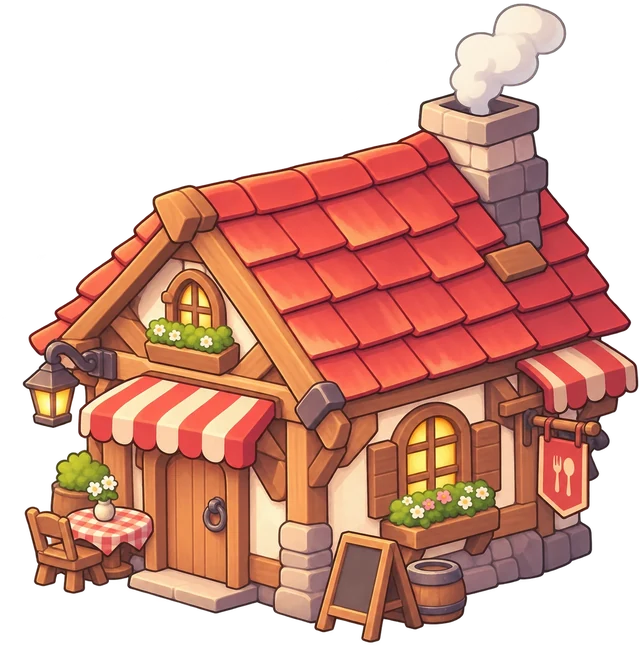
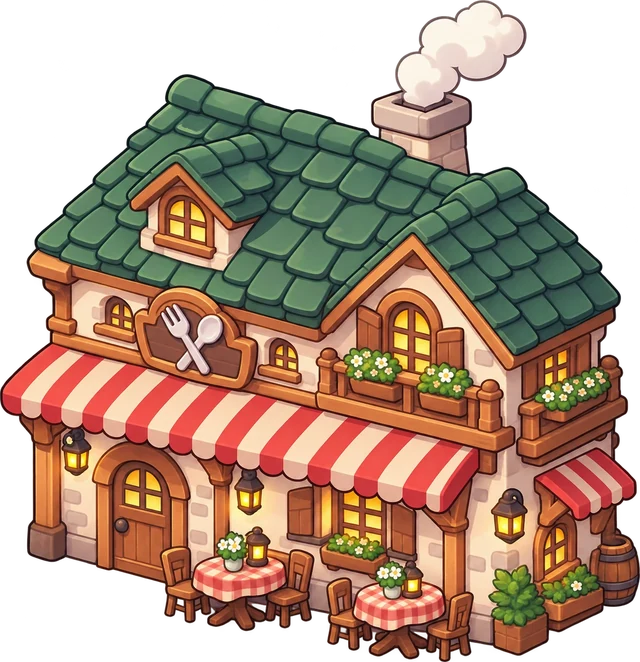
[Feat] Add New Smithy, Kitchen, Jeweler, Market And Museum Art
Claude-Session: https://claude.ai/code/session_01F7LDEjzvYkB5x36bq2t4nu

diff --git a/index.html b/index.html
@@ -321,7 +321,7 @@ function faint() {
 }
 /* ===== 그림 파일 (아니마룬에서 가져온 에셋). 아직 안 읽혔으면 코드 그림으로 대신 그림 ===== */
 const IMG = {};
-['b_house', 'b_mine', 'b_smithy', 'b_kitchen', 'vl_empty', 'vm_dirt', 'vm_rock', 'vm_stair', 'tree_a', 'tree_b', 'tree_c', 'bush', 'flower', 'rock', 'bankstone', 'lily', 'reed', 'mush', 'bridge', 'worldtree', 'grass', 'path', 'water',
+['b_house', 'b_mine', 'b_smithy', 'b_kitchen', 'b_jewel', 'b_market', 'b_museum', 'vl_empty', 'vm_dirt', 'vm_rock', 'vm_stair', 'tree_a', 'tree_b', 'tree_c', 'bush', 'flower', 'rock', 'bankstone', 'lily', 'reed', 'mush', 'bridge', 'worldtree', 'grass', 'path', 'water',
   'ic_gold', 'ic_pick', 'ic_shop', 'ic_village', 'ic_lock', 'ic_hearth', 'ic_rest', 'ic_shard', 'ic_treasure'].forEach(n => { const im = new Image(); im.onload = () => { im.ok = true; PAT = {}; }; im.src = `assets/${n}.webp`; IMG[n] = im; });
 // 바닥 가운데 (cx, by)에 폭 w로 그림. 못 그리면 false
 function sprite(c, name, cx, by, w) { const im = IMG[name]; if (!im || !im.ok) return false; const h = w * im.naturalHeight / im.naturalWidth; c.drawImage(im, cx - w / 2, by - h, w, h); return true; }
@@ -588,12 +588,13 @@ function drawBuilding(c, o, night) {
     }
   }
 }
-const BUILD_IMG = { house: 'b_house', mine: 'b_mine', smithy: 'b_smithy', kitchen: 'b_kitchen' };
+const BUILD_IMG = { house: 'b_house', mine: 'b_mine', smithy: 'b_smithy', kitchen: 'b_kitchen', jewel: 'b_jewel', market: 'b_market', museum: 'b_museum' };
+const BUILD_W = { jewel: .8, market: 1.02, museum: 1.0 };   // 칸 폭 대비 그림 폭 (기본 .98)
 // 건물 그림: 차지한 칸 폭에 맞춰 앞쪽 모서리에 세움
 function buildingSprite(c, o, name, grow) {
   const z = hgt(o.gx, o.gy), ctr = iso(o.gx + o.w / 2, o.gy + o.d / 2, z), front = iso(o.gx + o.w, o.gy + o.d, z);
   // 빈 터 그림은 둥근 받침이 있어 조금 넓게, 새 건물 그림은 받침이 없어 칸 폭에 맞춤
-  const base = name === 'vl_empty', w = (o.w + o.d) * TW / 2 * (base ? 1.1 : .98) * (grow === undefined ? 1 : .6 + .4 * grow);
+  const base = name === 'vl_empty', w = (o.w + o.d) * TW / 2 * (base ? 1.1 : BUILD_W[o.kind] || .98) * (grow === undefined ? 1 : .6 + .4 * grow);
   if (!base) { const g = IMG[name]; if (g && g.ok) P(c, [iso(o.gx + .1, o.gy + o.d, z), iso(o.gx + o.w, o.gy + o.d, z), iso(o.gx + o.w, o.gy + .1, z), iso(o.gx + o.w + .35, o.gy + .45, z), iso(o.gx + o.w + .35, o.gy + o.d + .35, z), iso(o.gx + .45, o.gy + o.d + .35, z)], 'rgba(20,30,10,.22)'); }
   return sprite(c, name, ctr[0], front[1] + TH * (base ? .15 : .12), w);
 }

diff --git a/CLAUDE.md b/CLAUDE.md
@@ -3,7 +3,7 @@
 ## 구성
 - 광산을 중심으로 마을을 복구하는 생활 게임. 기획은 `docs/기획.md`에 있음. **작업을 시작하기 전에 먼저 읽을 것.**
 - 만드는 방식 (11/12): 저장소 맨 위 `index.html` 하나짜리 웹 게임. 빌드와 외부 라이브러리 없이 HTML, CSS, JS를 한 파일에 두고, 그림은 `assets/`의 webp 파일을 씀. 저장은 브라우저 `localStorage` (`minerdiary.v1`). 모바일 세로 화면 기준. 컴퓨터(폭 700px 이상)에서도 화면 전체를 쓰고(양옆 자르지 않음), 화면이 넓을수록 칸을 키움(폭 2000px에서 약 120px, 사용자가 고른 크기). UI도 같은 비율로 키움(`--z`). 글꼴은 시스템 글꼴만 씀.
-- 화면 (11/12 사용자 결정, `docs/기획.md` 11번): 쿼터뷰(비스듬히 위에서 본) 디오라마. 카메라가 광부를 따라가고, 끌어서 둘러봄. 성벽 안 32×32 마을, 성벽 밖은 끝없는 들판과 숲(멀수록 안개). 광산은 정면 굴 단면 판. `<canvas>`에 그림. 그림은 아니마룬(`dfdeer/AnimaRune`, 같은 주인) 에셋을 `assets/`에 복사해 씀 (11/13 사용자 결정): 빈 터, 나무, 덤불, 꽃, 바위, 큰 나무, 다리, 수련, 갈대, 땅과 길과 물 무늬, 광산 칸, 아이콘. 건물은 새로 받은 그림으로 바꾸는 중(`docs/이미지_요청서.md`, 11/13부터 `b_house`, `b_mine`, `b_smithy`, `b_kitchen` 적용). 맞는 에셋이 없는 것(사람, 성벽, 밭, 시장 등)과 그림을 못 읽었을 때는 코드 그림. 이모지는 쓰지 않고 `ico('ic_...')` 그림 아이콘을 씀. 글(위쪽 정보, 아래 단추, 창)만 HTML. UI는 나무판 느낌: 위쪽 한 줄(날짜, 기력 막대, 돈, 설정), 마을 아래엔 목표와 가방 단추만, 창은 상호작용할 때만 올라옴, 광산은 높이가 고정된 아래 막대. 소리는 Web Audio로 합성(파일 없음).
+- 화면 (11/12 사용자 결정, `docs/기획.md` 11번): 쿼터뷰(비스듬히 위에서 본) 디오라마. 카메라가 광부를 따라가고, 끌어서 둘러봄. 성벽 안 32×32 마을, 성벽 밖은 끝없는 들판과 숲(멀수록 안개). 광산은 정면 굴 단면 판. `<canvas>`에 그림. 그림은 아니마룬(`dfdeer/AnimaRune`, 같은 주인) 에셋을 `assets/`에 복사해 씀 (11/13 사용자 결정): 빈 터, 나무, 덤불, 꽃, 바위, 큰 나무, 다리, 수련, 갈대, 땅과 길과 물 무늬, 광산 칸, 아이콘. 건물은 새로 받은 그림으로 바꾸는 중(`docs/이미지_요청서.md`, 11/13부터 건물 7개 `b_*` 모두 적용). 맞는 에셋이 없는 것(사람, 성벽, 밭, 시장 등)과 그림을 못 읽었을 때는 코드 그림. 이모지는 쓰지 않고 `ico('ic_...')` 그림 아이콘을 씀. 글(위쪽 정보, 아래 단추, 창)만 HTML. UI는 나무판 느낌: 위쪽 한 줄(날짜, 기력 막대, 돈, 설정), 마을 아래엔 목표와 가방 단추만, 창은 상호작용할 때만 올라옴, 광산은 높이가 고정된 아래 막대. 소리는 Web Audio로 합성(파일 없음).
 - 퀘스트 (`docs/기획.md` 13번): 위쪽 정보 아래에 지금 할 일 하나만 순서대로 보여 줌. 대상 위에 느낌표, 누르면 그곳으로 걸어감. 새 단계를 만들면 퀘스트도 이어 붙임.
 - 창이 열려 있는 동안엔 뒤쪽(걷기, 끌기, 다른 단추)을 모두 막음. 닫기는 ✕나 창 안 단추로만.
 - 화면 규칙: 건물은 2×2~4×4 칸에 생김새와 간판 그림으로 구분. 누를 수 있는 것끼리 화면에서 겹치지 않게 둠(테스트로 확인). 광부를 실제로 가리는 것만 반투명. 누른 곳과 고른 건물의 칸 전체를 표시. 광부가 화면 밖이면 가장자리 말풍선, 컴퓨터는 스페이스바로 돌아옴.
